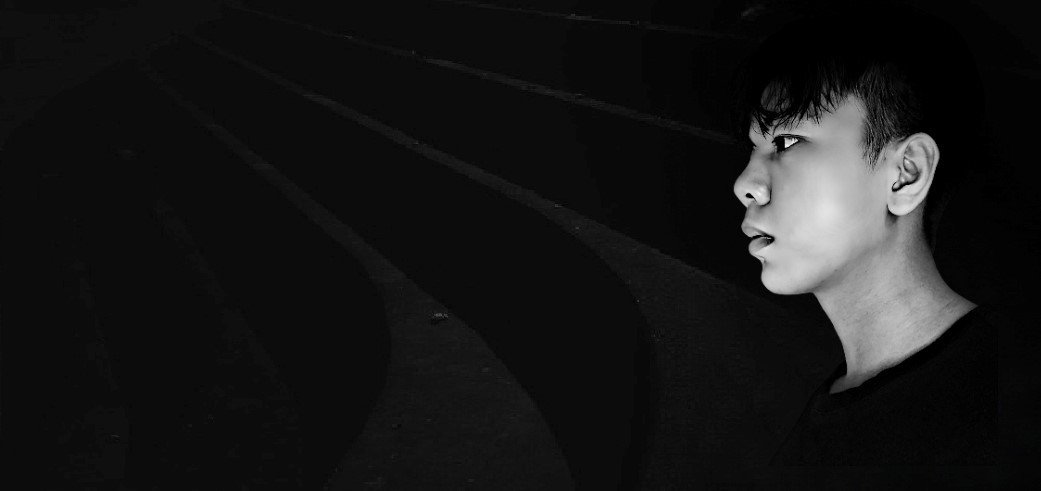
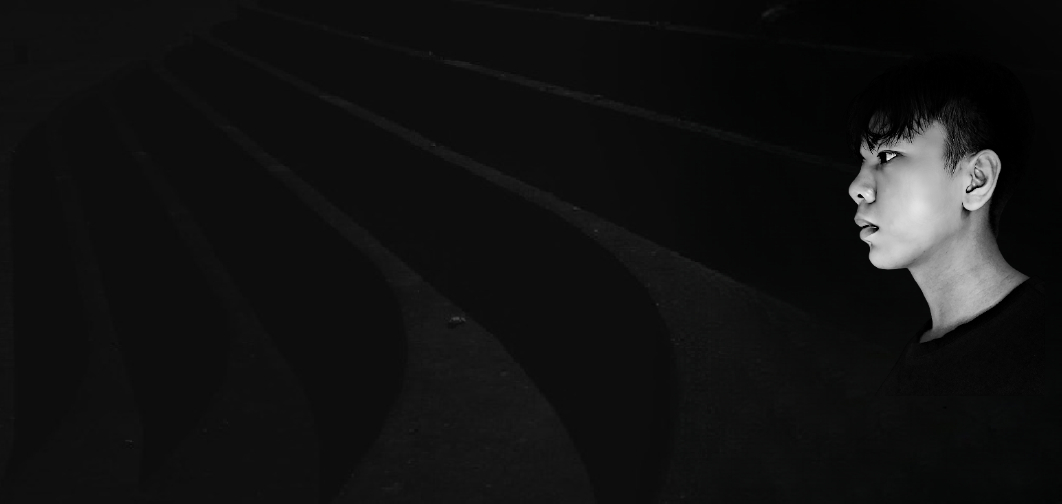
img

Changed region(s): [[0.707, 0.1527, 0.9837, 0.7943]]

diff --git a/assets/css/style.css b/assets/css/style.css
@@ -20,7 +20,7 @@ body {
 body::before {
   content: "";
   position: fixed;
-  background: #040404 url("../img/bg2.jpg") top right no-repeat;
+  background: #040404 url("../img/bg.jpg") top right no-repeat;
   background-size: cover;
   left: 0;
   right: 0;
